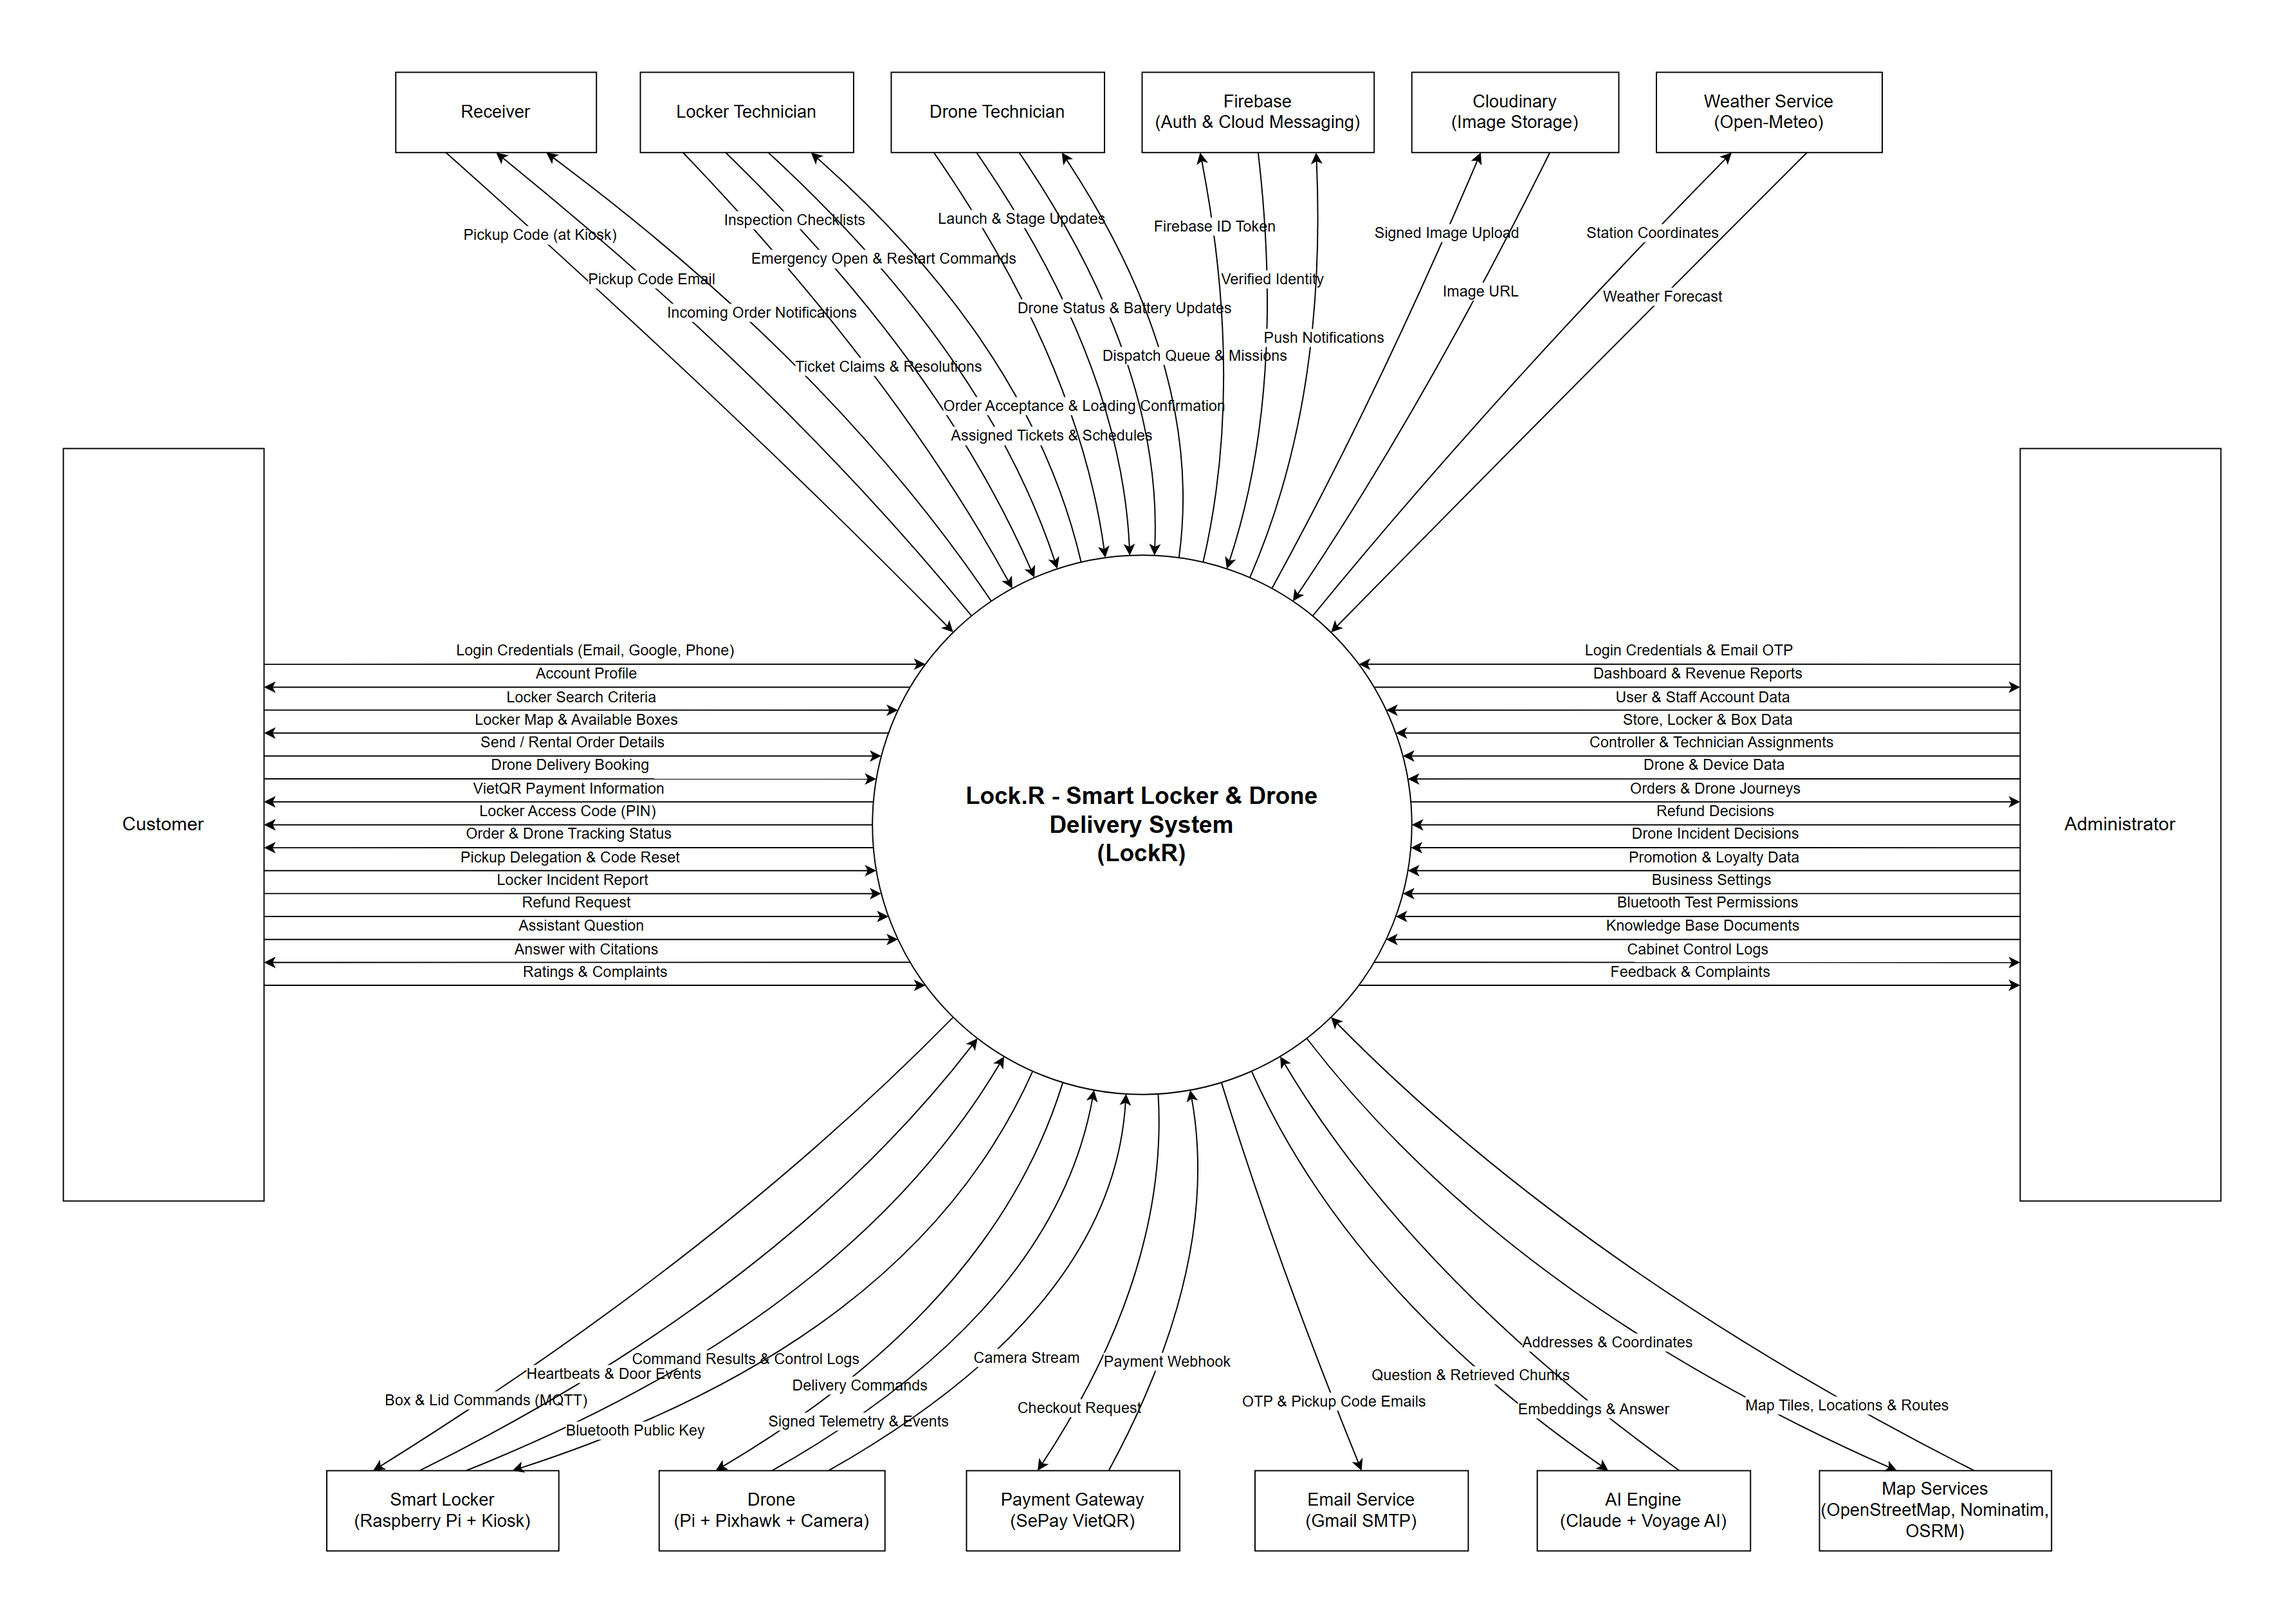
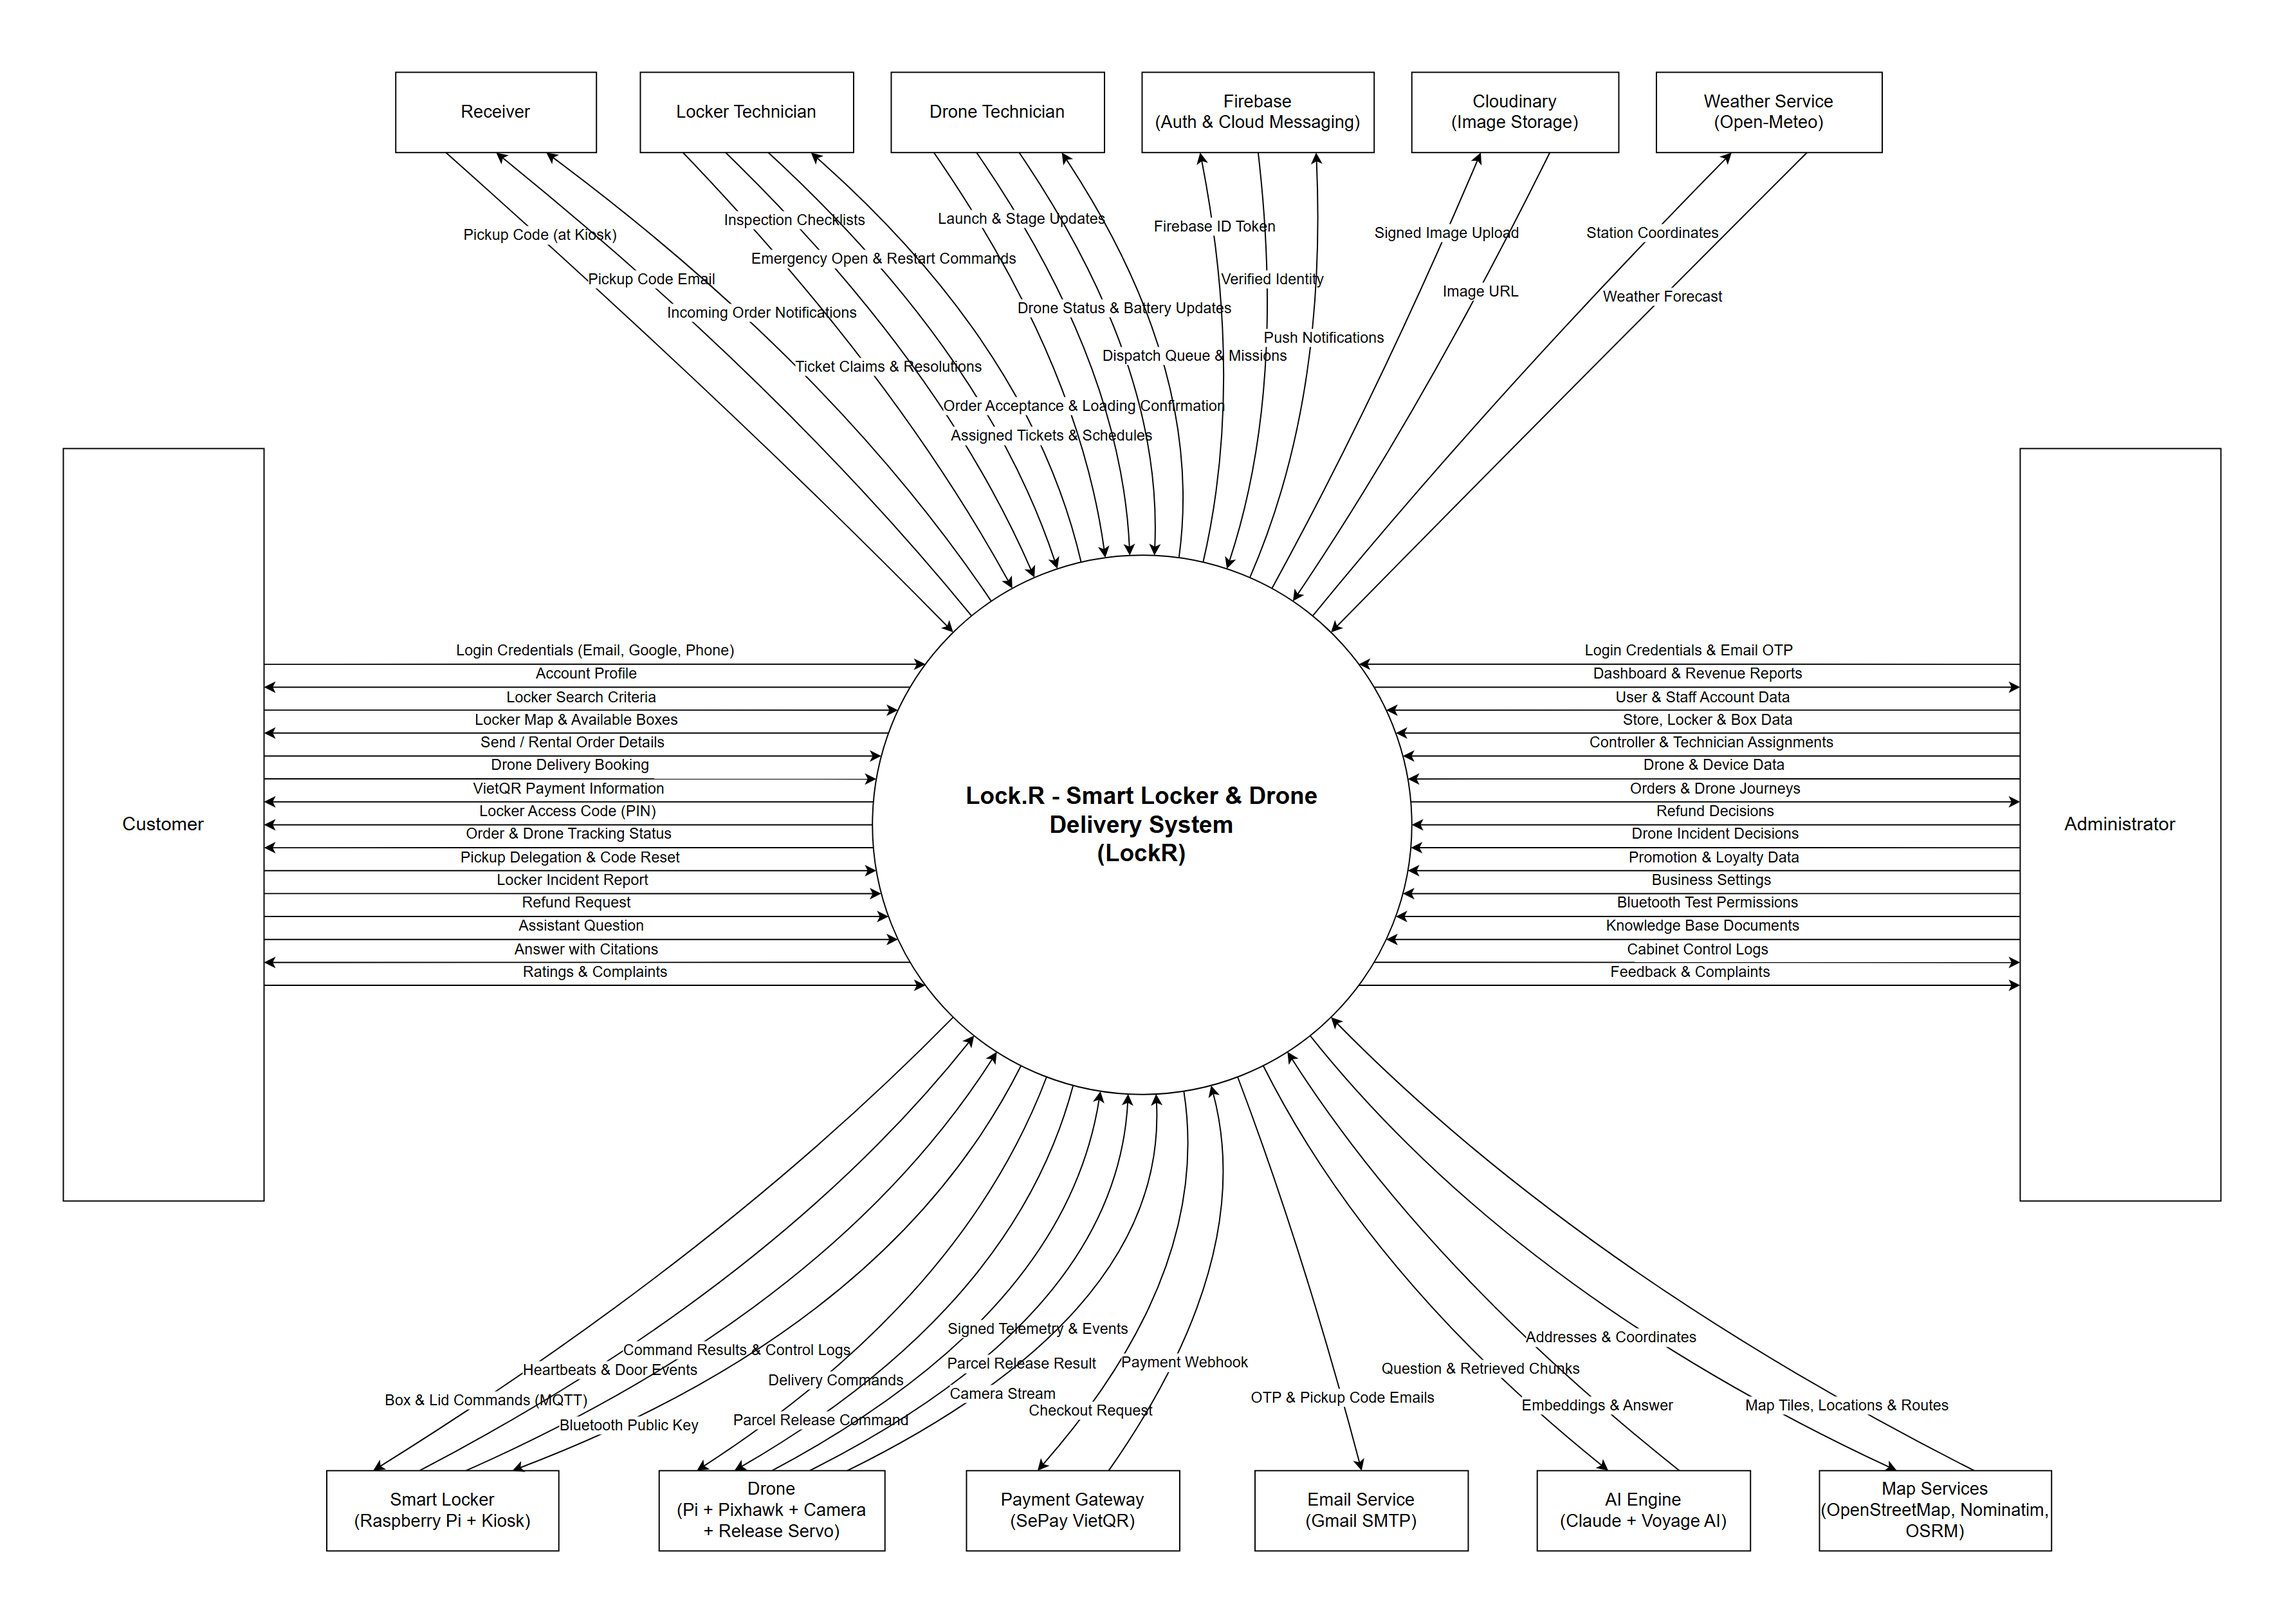
docs(diagrams): thêm luồng nhả hàng bằng servo vào context diagram
Drone nhận Parcel Release Command khi tủ báo nắp đã mở và gửi lại
Parcel Release Result; servo MG996R thay cho bước giả lập nhả hàng.

diff --git a/rp3/srs-assets/drawio/_generator/gen_context.py b/rp3/srs-assets/drawio/_generator/gen_context.py
@@ -139,7 +139,8 @@ ring([
 ring([
     ("Smart Locker<br>(Raspberry Pi + Kiosk)", 250, 185, [("Box &amp; Lid Commands (MQTT)", False), ("Heartbeats &amp; Door Events", True),
                                                    ("Command Results &amp; Control Logs", True), ("Bluetooth Public Key", False)]),
-    ("Drone<br>(Pi + Pixhawk + Camera)", 515, 180, [("Delivery Commands", False), ("Signed Telemetry &amp; Events", True),
+    ("Drone<br>(Pi + Pixhawk + Camera<br>+ Release Servo)", 515, 180, [("Delivery Commands", False), ("Parcel Release Command", False),
+                                                   ("Signed Telemetry &amp; Events", True), ("Parcel Release Result", True),
                                                    ("Camera Stream", True)]),
     ("Payment Gateway<br>(SePay VietQR)", 760, 170, [("Checkout Request", False), ("Payment Webhook", True)]),
     ("Email Service<br>(Gmail SMTP)", 990, 170, [("OTP &amp; Pickup Code Emails", False)]),
